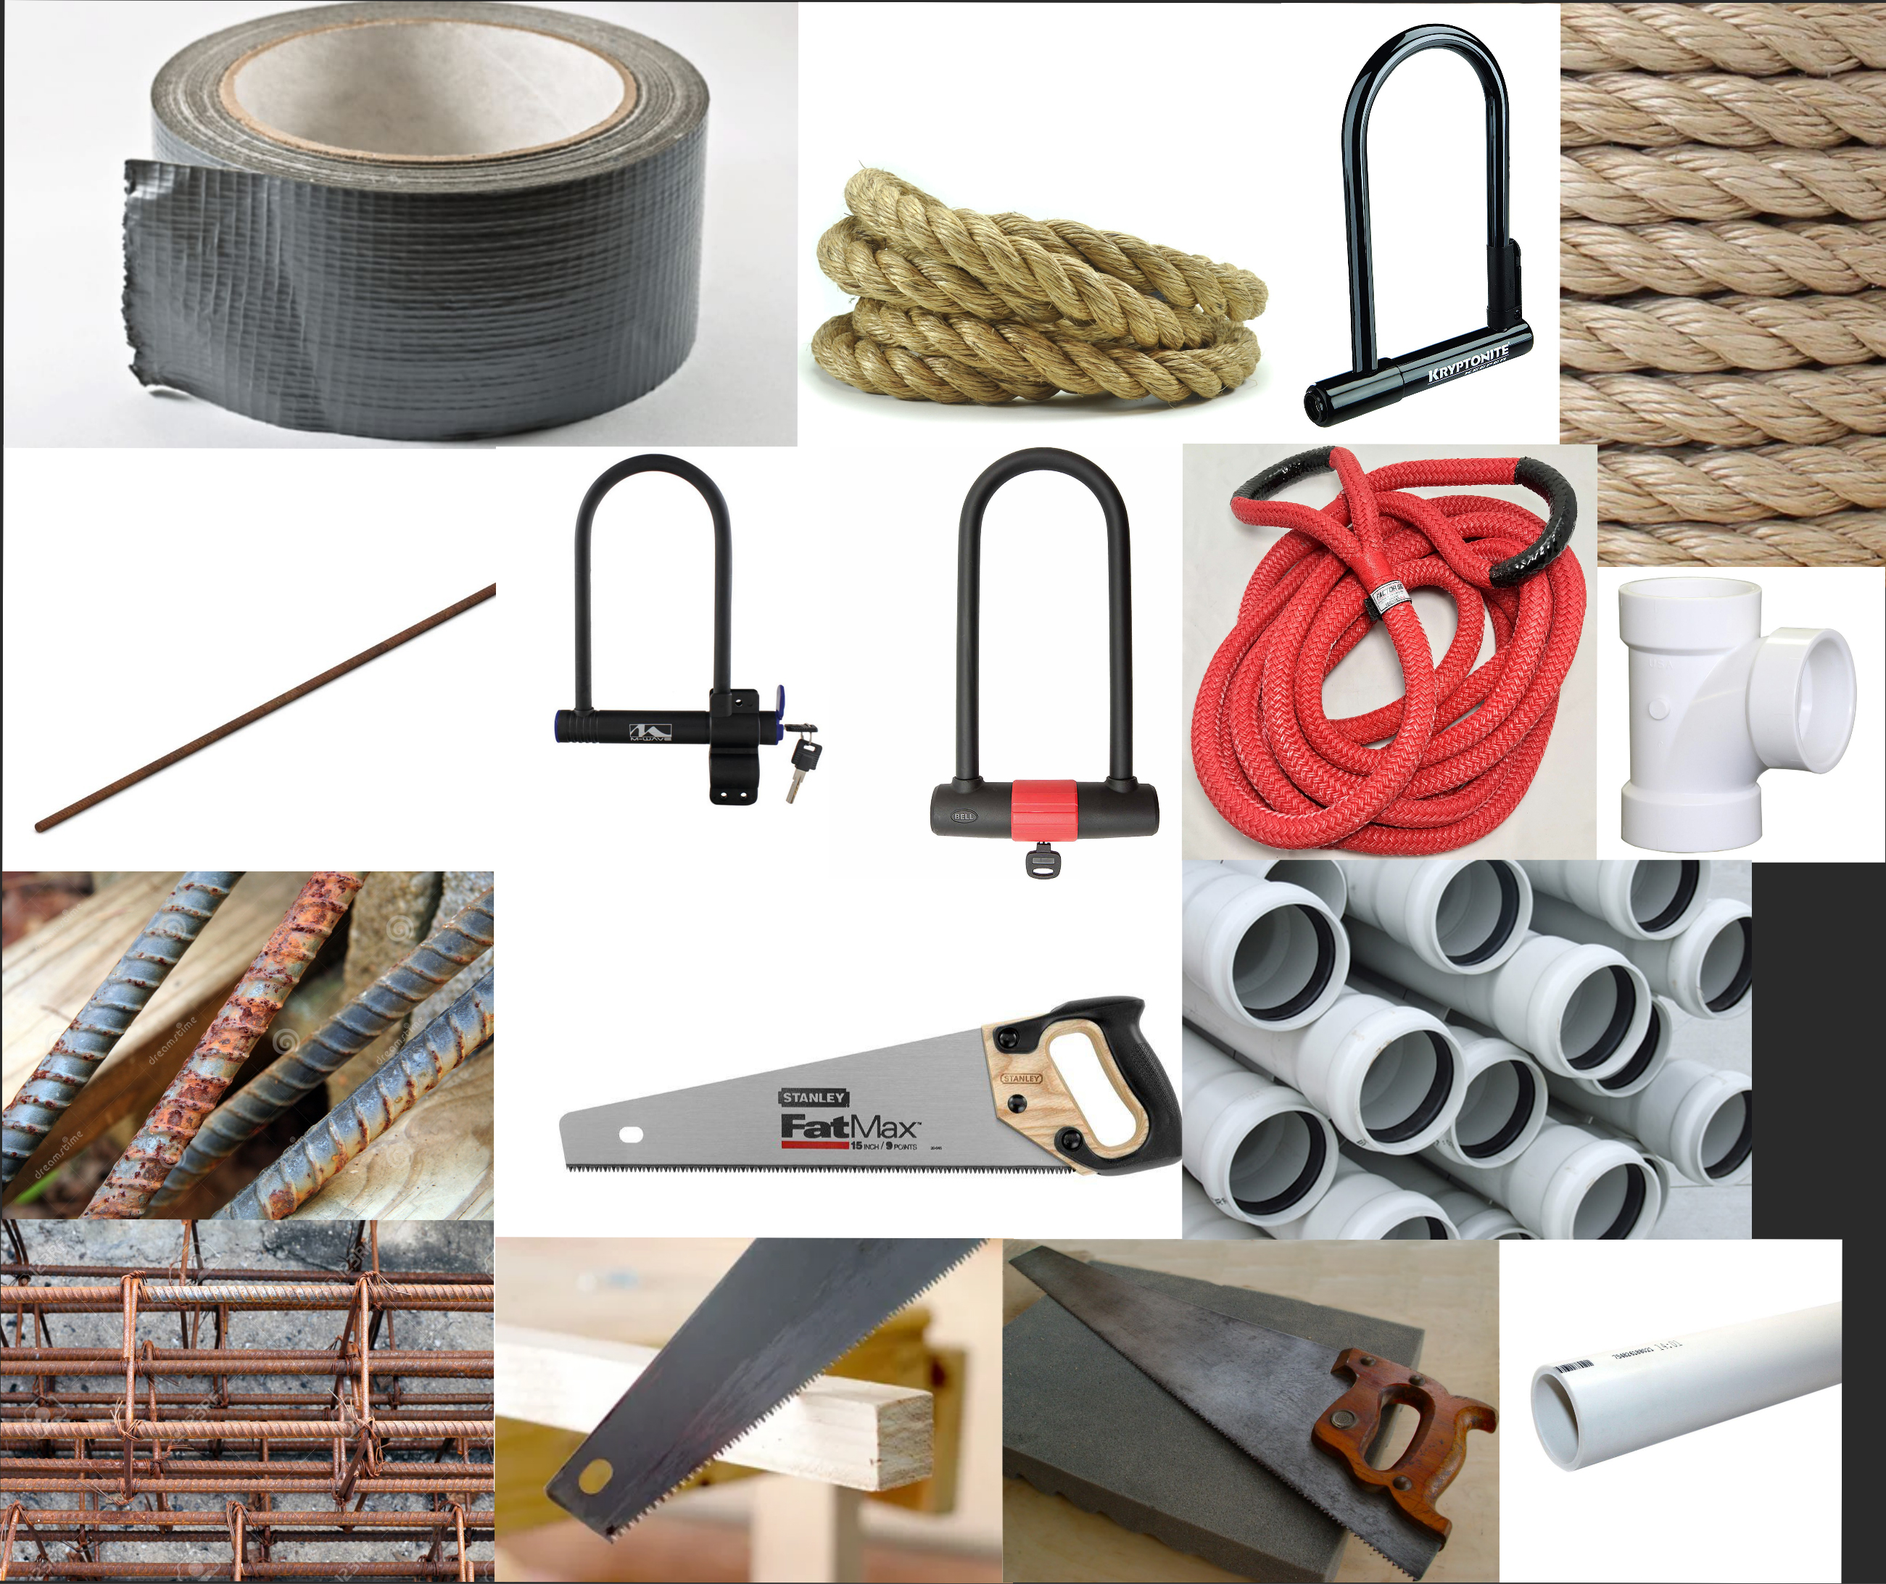
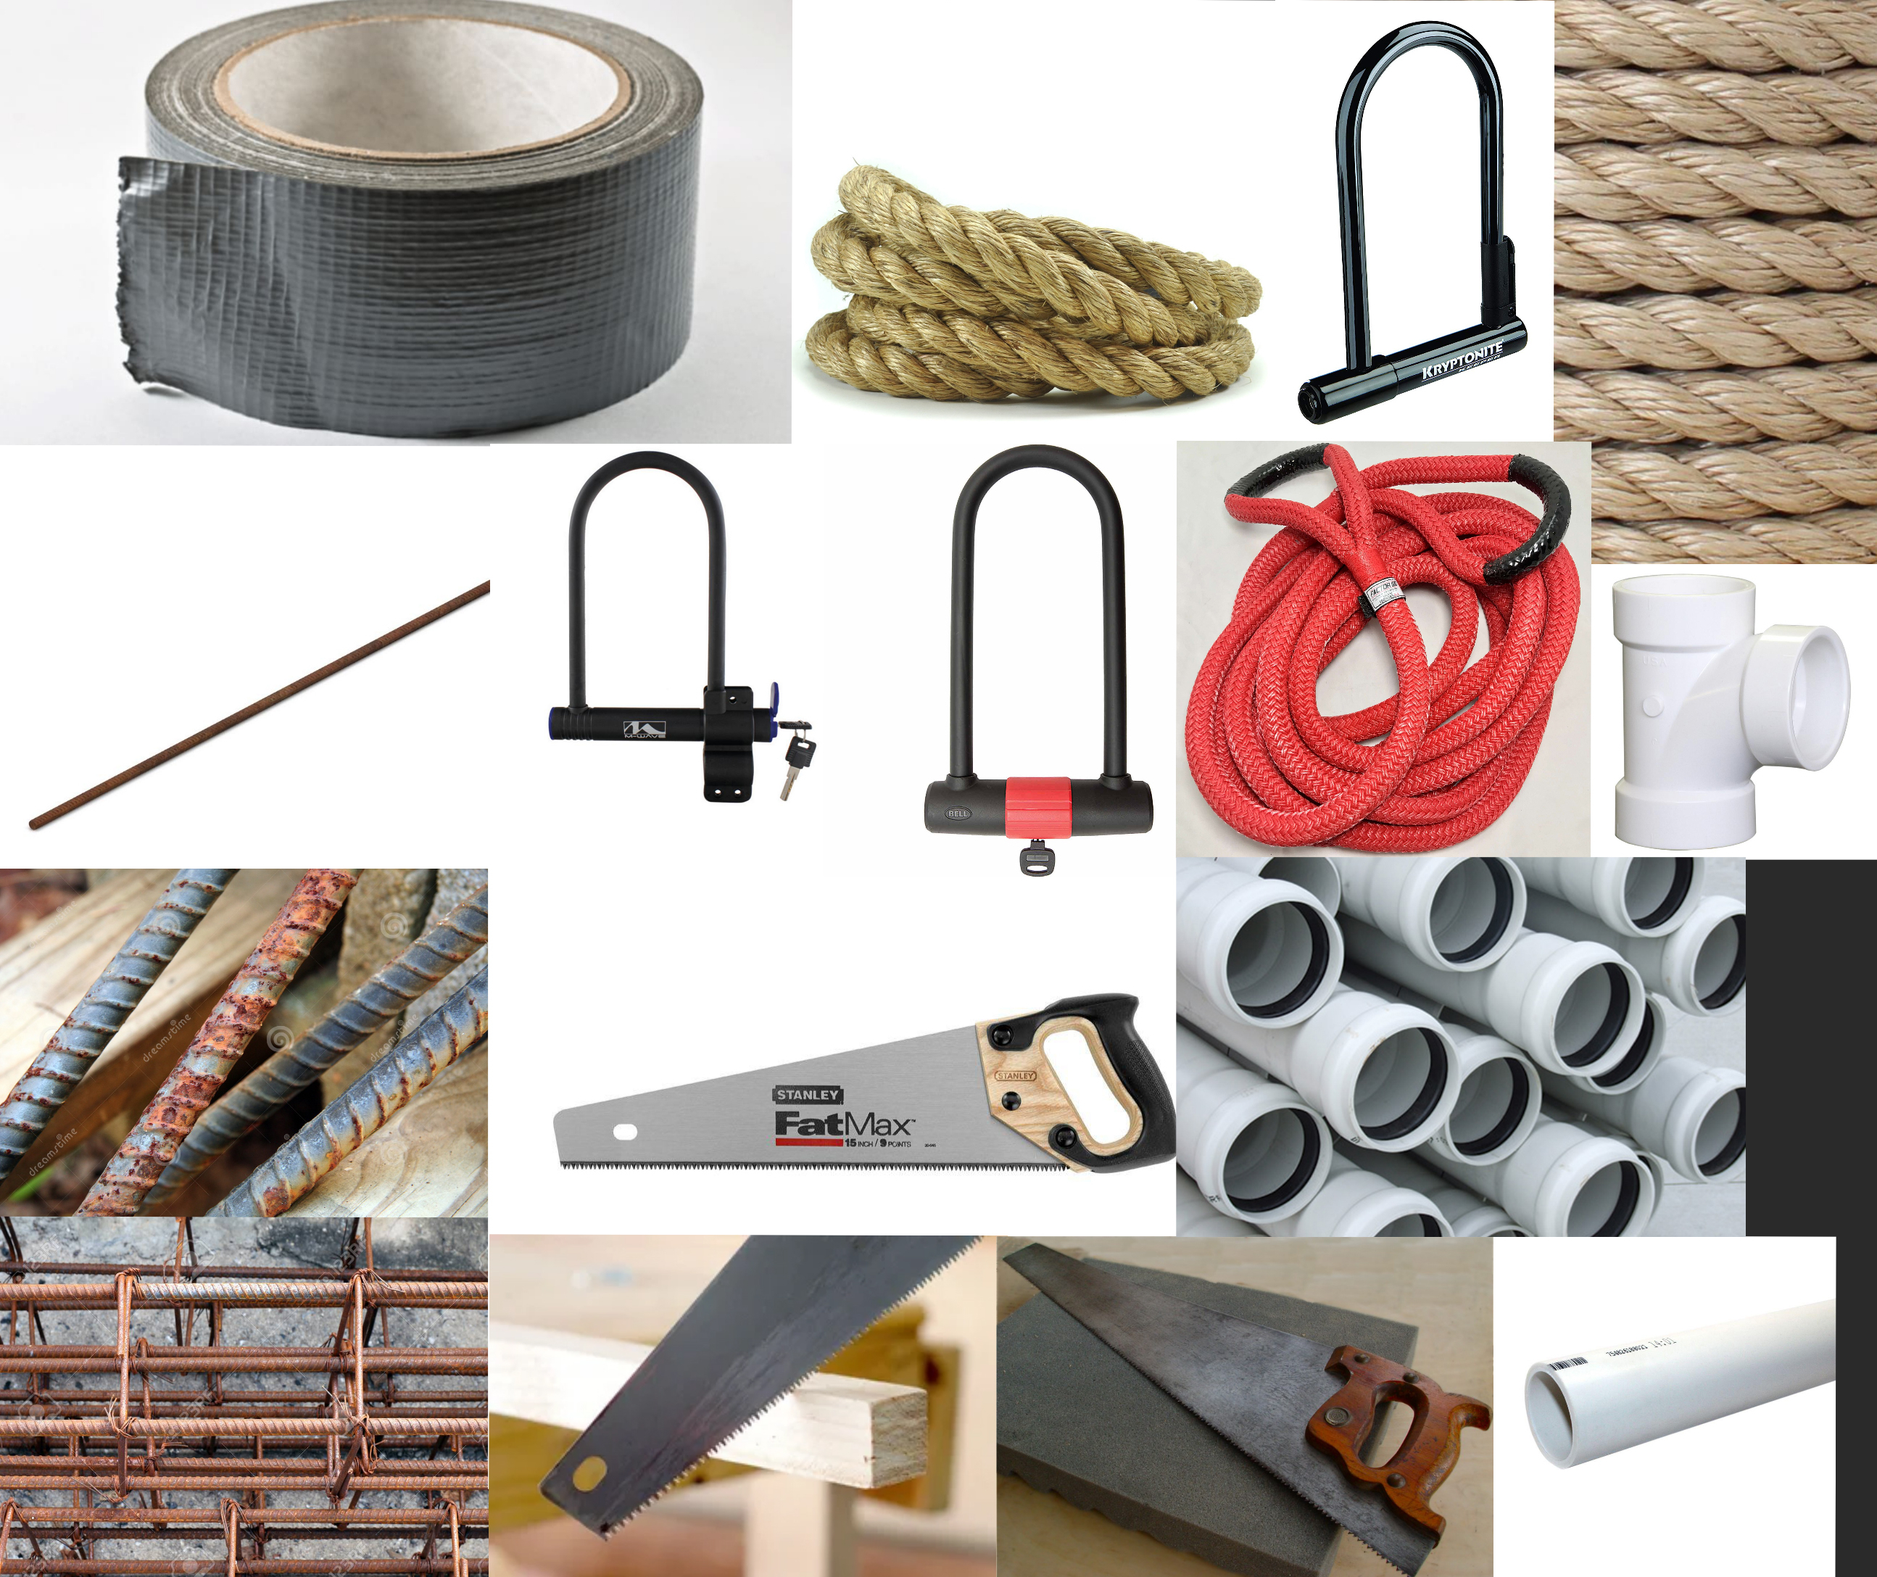
Fixed Image Galleys to have Images Share the Same Height

diff --git a/projects/cyberpunk-mob-boss.html b/projects/cyberpunk-mob-boss.html
@@ -85,7 +85,7 @@
             <h2>Concepting</h2>
             <p class="ProjectParagraphPrimary">Constraints: I chose a prompt of working on a futuristic crime boss. He needed to be a huge hulking man with accessories that one might associate with a mob boss, but sci fi themed. Once I had selected a specific character to work on, I concepted out their body structure, cyberpunk type accessories/clothing, and color palettes.</p>
             <div class="ImageGridColumn">
-                <div class="ImageGridRowThree">
+                <div class="ImageGridRowThree" id="AdjustHeight">
                     <div><img src="../Img/ProjectPages/CyberpunkMobBoss/Concepts/IdeationSketches.jpg" alt="Cyberpunk Mob Boss 3D Model Concept Ideation Sketches"></div>
                     <div><img src="../Img/ProjectPages/CyberpunkMobBoss/Concepts/Iterations.jpg" alt="Cyberpunk Mob Boss 3D Model Concept Iterations One"></div>
                     <div><img src="../Img/ProjectPages/CyberpunkMobBoss/Concepts/Iteration2.jpg" alt="Cyberpunk Mob Boss 3D Model Concept Iterations Two"></div>
@@ -98,11 +98,11 @@
             <h2>Reference</h2>
             <p class="ProjectParagraphPrimary">This was the reference I gathered before sculpting the model. My goal was to emulate a semi realistic art style with unrealistic proportions. I went with this art style because I was inspired by cartoonish mob boss proportions, but also liked the idea of a model with those proportions having somewhat realistic textures. Going into the project I knew that sculpting the model would be the most difficult task as it was my first time fully modeling a person, along with modeling with unrealistic proportions.</p>
             <div class="ImageGridColumn">
-                <div class="ImageGridRowTwo">
+                <div class="ImageGridRowTwo" id="AdjustHeight">
                     <div><img src="../Img/ProjectPages/CyberpunkMobBoss/Concepts/AnatomyRef.png" alt="Cyberpunk Mob Boss 3D Model Colored Concept"></div> 
                     <div><img src="../Img/ProjectPages/CyberpunkMobBoss/Concepts/ArtStyleRefSmall.jpg" alt="Cyberpunk Mob Boss 3D Model Art Style Ref Small"></div>
                 </div>
-                <div class="ImageGridRowTwo">
+                <div class="ImageGridRowTwo" id="AdjustHeight">
                     <div><img src="../Img/ProjectPages/CyberpunkMobBoss/Concepts/4-1.jpg" alt="Suit Concept Art One"></div>
                     <div><img src="../Img/ProjectPages/CyberpunkMobBoss/Concepts/suitfrontpattern.jpg" alt="Suit Concept Art Two"></div>
                 </div>
@@ -110,7 +110,7 @@
             <h2>Sculpting the Base Mesh</h2>
             <p class="ProjectParagraphPrimary">I decided to model the base mesh by sculpting it in ZBrush. I utilized the ZSpheres to create the base mesh, then started adding more topology on top of it to beef it up. Over the next couple weeks I sculpted each area, focussing specifically on getting the head and hands right. I utilized Dynamesh, Subdivision, and ZRemesher. Once I was happy with my model's body I exported it out as an FBX and took it into Marvelous.</p>
             <div class="ImageGridColumn">
-                <div class="ImageGridRowTwo">
+                <div class="ImageGridRowTwo" id="AdjustHeight">
                     <div><img src="../Img/ProjectPages/CyberpunkMobBoss/Sculpting/Sculpt2.jpg" alt="Sculpting Cyberpunk Mob Boss 3D Model One"></div>
                     <div><img src="../Img/ProjectPages/CyberpunkMobBoss/Sculpting/Sculpt1.jpg" alt="Sculpting Cyberpunk Mob Boss 3D Model Two"></div>
                 </div>
@@ -274,6 +274,7 @@
 
     <script src="../js/TopLevelFooter.js"></script>
     <script src="../js/Main.js"></script>
+    <script src="../js/AdjustGalleryRowsSize.js"></script>
     
 </body>
 </html>

diff --git a/projects/the-workshop-cleaver.html b/projects/the-workshop-cleaver.html
@@ -96,7 +96,7 @@
             <h2>Reference</h2>
             <p class="ProjectParagraphPrimary">This was the reference I gathered before sculpting and texturing my sword to help get the overall realistic art direction I was aiming for. I went with this art style because the different elements that make up the sword seemed more interesting to emulate in a realistic fashion to me. One of my concerns though was that the textures for the weapon would be complicated to get right as they needed to look realistic.</p>
             <div class="ImageGridColumn">
-                <div class="ImageGridRowTwo">
+                <div class="ImageGridRowTwo" id="AdjustHeight">
                     <div><img src="../Img/ProjectPages/WorkshopCleaver/TexturingRef.jpg" alt="Cleaver Texturing Ref"></div> 
                     <div><img src="../Img/ProjectPages/WorkshopCleaver/ModelingRef.jpg" alt="Cleaver Modeling Ref"></div> 
                 </div>
@@ -104,7 +104,7 @@
             <h2>Modeling the Base Mesh</h2>
             <p class="ProjectParagraphPrimary">I decided to model the base mesh using SubD modeling techniques in Maya. Most of this was very straightforward manipulation of basic boxes and cylinders. Although, I did get to play with the spiral tool for the rebar. This was a solid base to then take into ZBrush and start sculpting in more detail.</p>
             <div class="ImageGridColumn">
-                <div class="ImageGridRowTwo">
+                <div class="ImageGridRowTwo" id="AdjustHeight">
                     <div><img src="../Img/ProjectPages/WorkshopCleaver/ModelingInMayaOne.jpg" alt="Cleaver Screen Shot Modeling in Maya One"></div>
                     <div><img src="../Img/ProjectPages/WorkshopCleaver/ModelingInMayaTwo.jpg" alt="Cleaver Screen Shot Modeling in Maya One"></div>
                 </div>
@@ -112,7 +112,7 @@
             <h2>Sculpting</h2>
             <p class="ProjectParagraphPrimary">The sculpting in ZBrush mostly consisted of adding scratches and wear to the edges of the blades. Initially I was going to add rope detail in ZBrush, but since I was running into problems, I saved that task for Maya instead.</p>
             <div class="ImageGridColumn">
-                <div class="ImageGridRowTwo">
+                <div class="ImageGridRowTwo" id="AdjustHeight">
                     <div><img src="../Img/ProjectPages/WorkshopCleaver/ScreenShotDetailCloseUp.jpg" alt="Cleaver Screen Shot Detail Close Up"></div>
                     <div><img src="../Img/ProjectPages/WorkshopCleaver/ScreenShotDetailPassZBrush.jpg" alt="Cleaver Screen Shot Detail Pass ZBrush"></div>
                 </div>
@@ -130,7 +130,7 @@
             <p class="ProjectParagraphPrimaryCentered">11,030 Tris</p>
             <p class="ProjectParagraphPrimaryCentered">Single 2048 x 2048 Texture Set</p>
             <div class="ImageGridColumn">
-                <div class="ImageGridRowTwo">
+                <div class="ImageGridRowTwo" id="AdjustHeight">
                     <div><img src="../Img/ProjectPages/WorkshopCleaver/WireFrameOfSword.jpg" alt="Workshop Cleaver Wire Frame Image"></div>
                     <div><img src="../Img/ProjectPages/WorkshopCleaver/UVsOfSword.jpg" alt="Workshop Cleaver UVs of Sword"></div>
                 </div>
@@ -213,6 +213,7 @@
 
     <script src="../js/TopLevelFooter.js"></script>
     <script src="../js/Main.js"></script>
+    <script src="../js/AdjustGalleryRowsSize.js"></script>
     
 </body>
 </html>

diff --git a/projects/ursa-major.html b/projects/ursa-major.html
@@ -83,20 +83,23 @@
             <h1>URSA Major</h1>
             <h2 class="ProjecDetailsHeader">April 2017 | Programmer | Acadmeic | Unity Game</h2>
             <p class="ProjectParagraphPrimary">Ursa Major is a cooperative bullet hell shooter made for an arcade cabinet. One player drives the character while the other drives the guns. The two must work together to survive a robot onslaught and beat the final boss. It was developed by a team of ten over seven months for the 2017 FUSE show at the Peoria Riverfront Museum. I was an assistant programmer on the project.</p>
-            <ul class="ImageGalleryList">
-                <li class="ImageGalleryListItem">
-                    <img src="../Img/ProjectPages//UrsaMajor/ursafuse1.jpg" alt="URSA Major setup at Fuse">
-                </li>
-                <li class="ImageGalleryListItem">
-                    <img src="../Img/ProjectPages//UrsaMajor/ursafuse2.jpg" alt="Crowd around URSA Major arcade cabinet at Fuse">
-                </li>
-                <li class="ImageGalleryListItem">
-                    <img src="../Img/ProjectPages//UrsaMajor/ursafuse3.jpg" alt="People playing URSA Major at Fuse">
-                </li>
-                <li class="ImageGalleryListItem">
-                    <img src="../Img/ProjectPages//UrsaMajor/ursafuse4.jpg" alt="People playing URSA Major at Fuse">
-                </li>
-            </ul>
+            <div class="ImageGridColumn">
+                <div class="ImageGridRowFour" id="AdjustHeight">
+                    <div>
+                        <img src="../Img/ProjectPages//UrsaMajor/ursafuse1.jpg" alt="URSA Major setup at Fuse">
+                    </div>
+                    <div>
+                        <img src="../Img/ProjectPages//UrsaMajor/ursafuse2.jpg" alt="Crowd around URSA Major arcade cabinet at Fuse">                      
+                    </div>
+                    <div>
+                        <img src="../Img/ProjectPages//UrsaMajor/ursafuse3.jpg" alt="People playing URSA Major at Fuse">                  
+                    </div>
+                    <div>
+                        <img src="../Img/ProjectPages//UrsaMajor/ursafuse4.jpg" alt="People playing URSA Major at Fuse">
+                    </div>
+                    
+                </div>
+            </div>
             <iframe class="ProjectPageYTEmbed" src="https://www.youtube.com/embed/3_3OuS1i5kA" allowfullscreen></iframe>
             <p class="ProjectParagraphPrimary">I was tasked with working alongside our lead programmers, Eric Santos and Sarah McGlasson, on the attack power ups for Ursa Major. I helped program picking up the power ups and the different effects that each power up gave off. For example, the canon shot power up required an increased area of effect.</p>
             <div class="ImageGridColumn">
@@ -129,6 +132,7 @@
 
     <script src="../js/TopLevelFooter.js"></script>
     <script src="../js/Main.js"></script>
+    <script src="../js/AdjustGalleryRowsSize.js"></script>
 
 </body>
 </html>

diff --git a/js/AdjustGalleryRowsSize.js b/js/AdjustGalleryRowsSize.js
@@ -1,0 +1,102 @@
+
+window.addEventListener('load', AdjustRowHeights);
+window.addEventListener('resize', AdjustRowHeightsAgain);
+
+var twoElements = 0;
+var threeElements = 0;
+var fourElements = 0;
+
+var minTwoImageHeight = 0;
+var minThreeImageHeight = 0;
+var minFourImageHeight = 0;
+
+
+function AdjustRowHeights() {
+
+  var screenWidth = window.innerWidth;
+  if (screenWidth > 768)
+  {
+    twoElements = Array.from(document.querySelectorAll('.ImageGridRowTwo#AdjustHeight'));
+
+    twoElements.forEach(row => {
+      
+      const images = Array.from(row.querySelectorAll('img'));
+      minTwoImageHeight = Math.min(...images.map(img => img.offsetHeight));
+
+      images.forEach(image => {
+        image.style.height = 'auto';
+        image.style.maxHeight = minTwoImageHeight + 'px';
+      });
+
+    });
+
+    threeElements = Array.from(document.querySelectorAll('.ImageGridRowThree#AdjustHeight'));
+
+    threeElements.forEach(row => {
+      
+      const images = Array.from(row.querySelectorAll('img'));
+      minThreeImageHeight = Math.min(...images.map(img => img.offsetHeight));
+
+      images.forEach(image => {
+        image.style.height = 'auto';
+        image.style.maxHeight = minThreeImageHeight + 'px';
+      });
+
+    });
+
+    fourElements = Array.from(document.querySelectorAll('.ImageGridRowFour#AdjustHeight'));
+
+    fourElements.forEach(row => {
+      
+      const images = Array.from(row.querySelectorAll('img'));
+      minFourImageHeight = Math.min(...images.map(img => img.offsetHeight));
+
+      images.forEach(image => {
+        image.style.height = 'auto';
+        image.style.maxHeight = minFourImageHeight + 'px';
+      });
+
+    });    
+  }
+
+
+}
+
+function AdjustRowHeightsAgain() {
+
+  var screenWidth = window.innerWidth;
+  if (screenWidth > 768)
+  {
+
+    twoElements.forEach(row => {
+      
+      const images = Array.from(row.querySelectorAll('img'));
+
+      images.forEach(image => {
+        image.style.maxHeight = minTwoImageHeight + 'px';
+      });
+
+    });
+
+    threeElements.forEach(row => {
+      
+      const images = Array.from(row.querySelectorAll('img'));
+
+      images.forEach(image => {
+        image.style.maxHeight = minThreeImageHeight + 'px';
+      });
+
+    });
+
+    fourElements.forEach(row => {
+      
+      const images = Array.from(row.querySelectorAll('img'));
+
+      images.forEach(image => {
+        image.style.maxHeight = minFourImageHeight + 'px';
+      });
+
+    });
+    console.log('Resolution changed!');
+  }
+}

diff --git a/CSS/projectpagemobile.css b/CSS/projectpagemobile.css
@@ -4,13 +4,11 @@
 {
     .ImageGridColumnThree
     {
-        flex: 50%;
         max-width: 50%;
     }
 
     .ImageGridColumnFour
     {
-        flex: 50%;
         max-width: 50%;
     }
 }
@@ -49,7 +47,6 @@
 
     .ImageGridRowFour div
     {
-        flex: 33.3%;
         max-width: 33.3%;
     }
 }
@@ -88,13 +85,11 @@
 
     .ImageGridRowThree div
     {
-        flex: 50%;
         max-width: 50%;
     }
 
     .ImageGridRowFour div
     {
-        flex: 50%;
         max-width: 50%;
     }
 
@@ -144,19 +139,17 @@
 
     .ImageGridRowTwo div
     {
-        flex: 100%;
         max-width: 100%;
     }
 
     .ImageGridRowThree div
     {
-        flex: 50%;
         max-width: 50%;
     }
 
     .ImageGridRowFour div
     {
-        flex: 50%;
+
         max-width: 50%;
     }
 
@@ -216,19 +209,16 @@
 
     .ImageGridRowTwo div
     {
-        flex: 100%;
         max-width: 100%;
     }
 
     .ImageGridRowThree div
     {
-        flex: 100%;
         max-width: 100%;
     }
 
     .ImageGridRowFour div
     {
-        flex: 100%;
         max-width: 100%;
     }
 

diff --git a/CSS/projectpage.css b/CSS/projectpage.css
@@ -114,8 +114,14 @@ h3
 .ImageGridRowTwo div
 {
     padding: 0px 8px;
-    flex: 50%;
     max-width: 50%;
+    height: 100%;
+    display: flex;
+    flex-direction: column;
+    justify-items: center;
+    justify-content: center;
+    align-items: center;
+    align-content: center;
 }
 
 .ImageGridRowThree
@@ -134,8 +140,14 @@ h3
 .ImageGridRowThree div
 {
     padding: 0px 8px;
-    flex: 33.3%;
     max-width: 33.3%;
+    height: 100%;
+    display: flex;
+    flex-direction: column;
+    justify-items: center;
+    justify-content: center;
+    align-items: center;
+    align-content: center;
 }
 
 
@@ -155,8 +167,14 @@ h3
 .ImageGridRowFour div
 {
     padding: 0px 8px;
-    flex: 25%;
     max-width: 25%;
+    height: 100%;
+    display: flex;
+    flex-direction: column;
+    justify-items: center;
+    justify-content: center;
+    align-items: center;
+    align-content: center;
 }
 
 .ImageGalleryList

diff --git a/index.html b/index.html
@@ -82,10 +82,14 @@
 
     <main class="RegularSection">
         <div class="RegularContainer">
+            <h1>Latest Blog Post</h1>
+            
+            <!--
             <h1>My Reel</h1>
             <div class="ReelYTEmbed">
                 <h2 style="color: white; padding-top: 60px;">Reel Coming Soon</h2>
             </div>
+            -->
             <h1>Featured Projects</h1>
             <section class="FeaturedHolder">
                 <div class="FeaturedElement" style="background-color: #92448D;">

diff --git a/projects/circuit-breaker.html b/projects/circuit-breaker.html
@@ -134,6 +134,7 @@
 
     <script src="../js/TopLevelFooter.js"></script>
     <script src="../js/Main.js"></script>
+    <script src="../js/AdjustGalleryRowsSize.js"></script>
     
 </body>
 </html>

diff --git a/projects/scrapyard-skirmish.html b/projects/scrapyard-skirmish.html
@@ -106,6 +106,7 @@
 
     <script src="../js/TopLevelFooter.js"></script>
     <script src="../js/Main.js"></script>
+    <script src="../js/AdjustGalleryRowsSize.js"></script>
     
 </body>
 </html>
